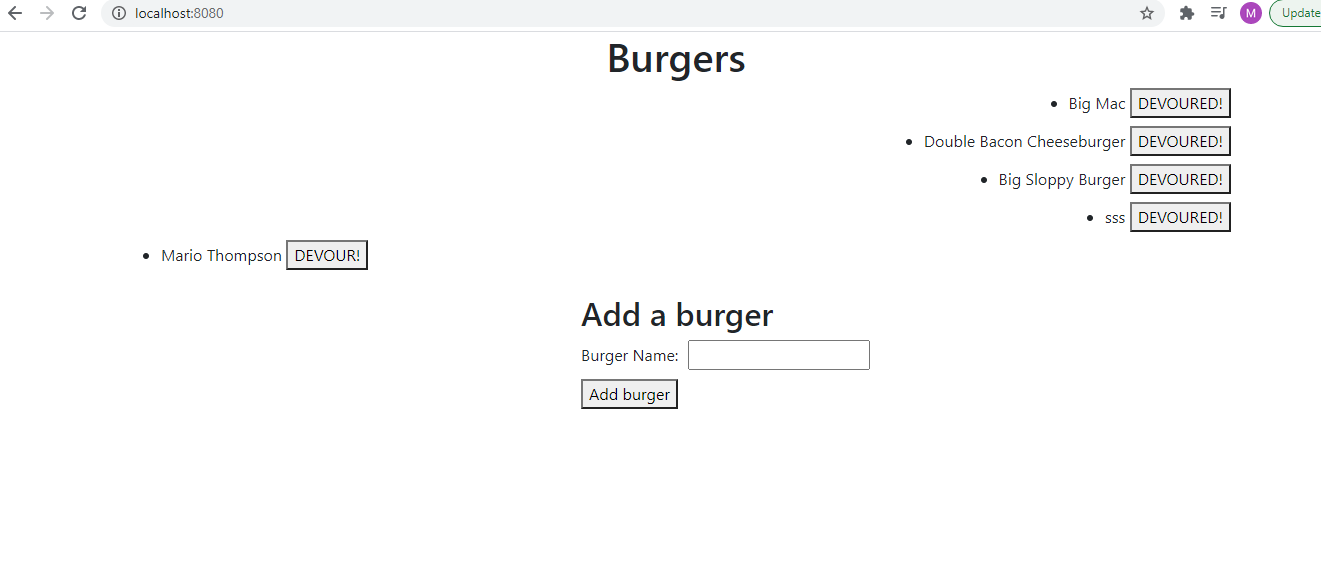
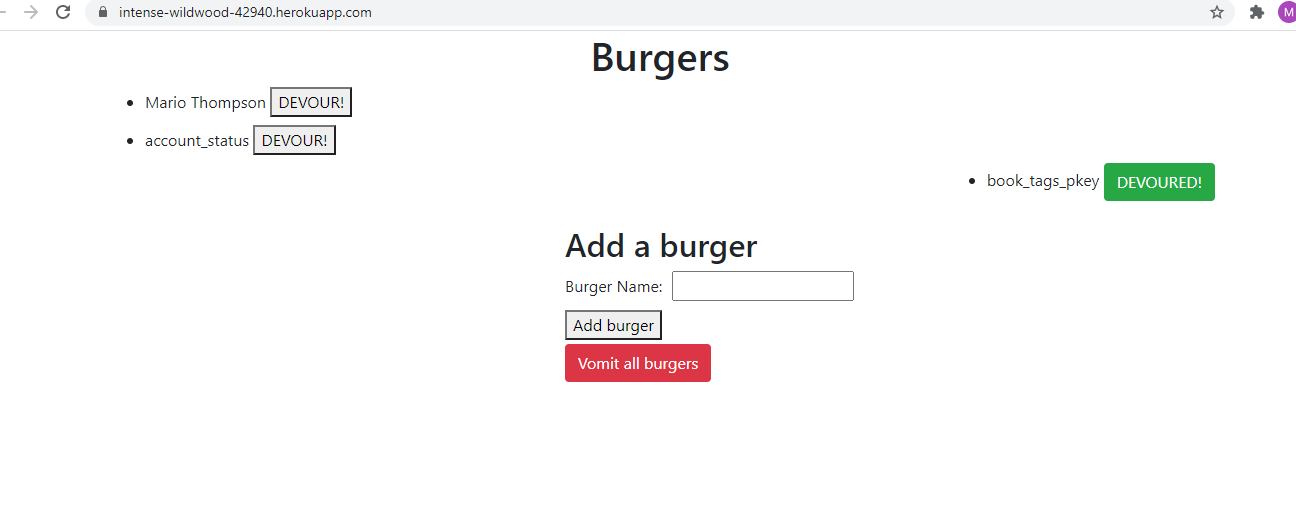
Add new screenshots including vomit button

diff --git a/README.md b/README.md
@@ -3,8 +3,8 @@
 ## Link to trying out the app and Screenshots:
 [Try out the Burger Logger](https://intense-wildwood-42940.herokuapp.com/)
 
-![Before Burger Being Devoured](https://github.com/MarioThompson0010/13_Burger_Logger/blob/main/screenshots/screenshot1.PNG)
-![After Burger Being Devoured](https://github.com/MarioThompson0010/13_Burger_Logger/blob/main/screenshots/afterBeingDevoured.PNG)
+![Before Burger Being Vomited](https://github.com/MarioThompson0010/13_Burger_Logger/blob/main/screenshots/screenshot1.PNG)
+![After Burger Being Vomited](https://github.com/MarioThompson0010/13_Burger_Logger/blob/main/screenshots/afterBeingDevoured.PNG)
 
 List of technologies and methodologies used: Nodejs, npm, inquirer, Mysql, Express, Express-Handlebars, Javascript,    HTML, CSS, Bootstrap, Heroku, Github, MVC, REST
 
@@ -27,6 +27,7 @@ You can go to Heroku (see the link, above) and run it that way, or follow the fo
 4) Enter the name of a burger you want to eat
 5) Click the Add Burger button
 6) Devour the burger by clicking the DEVOUR! button
+7) Vomit the burger by clicking "Vomit all burgers"
 
 ## How to test this app
 
